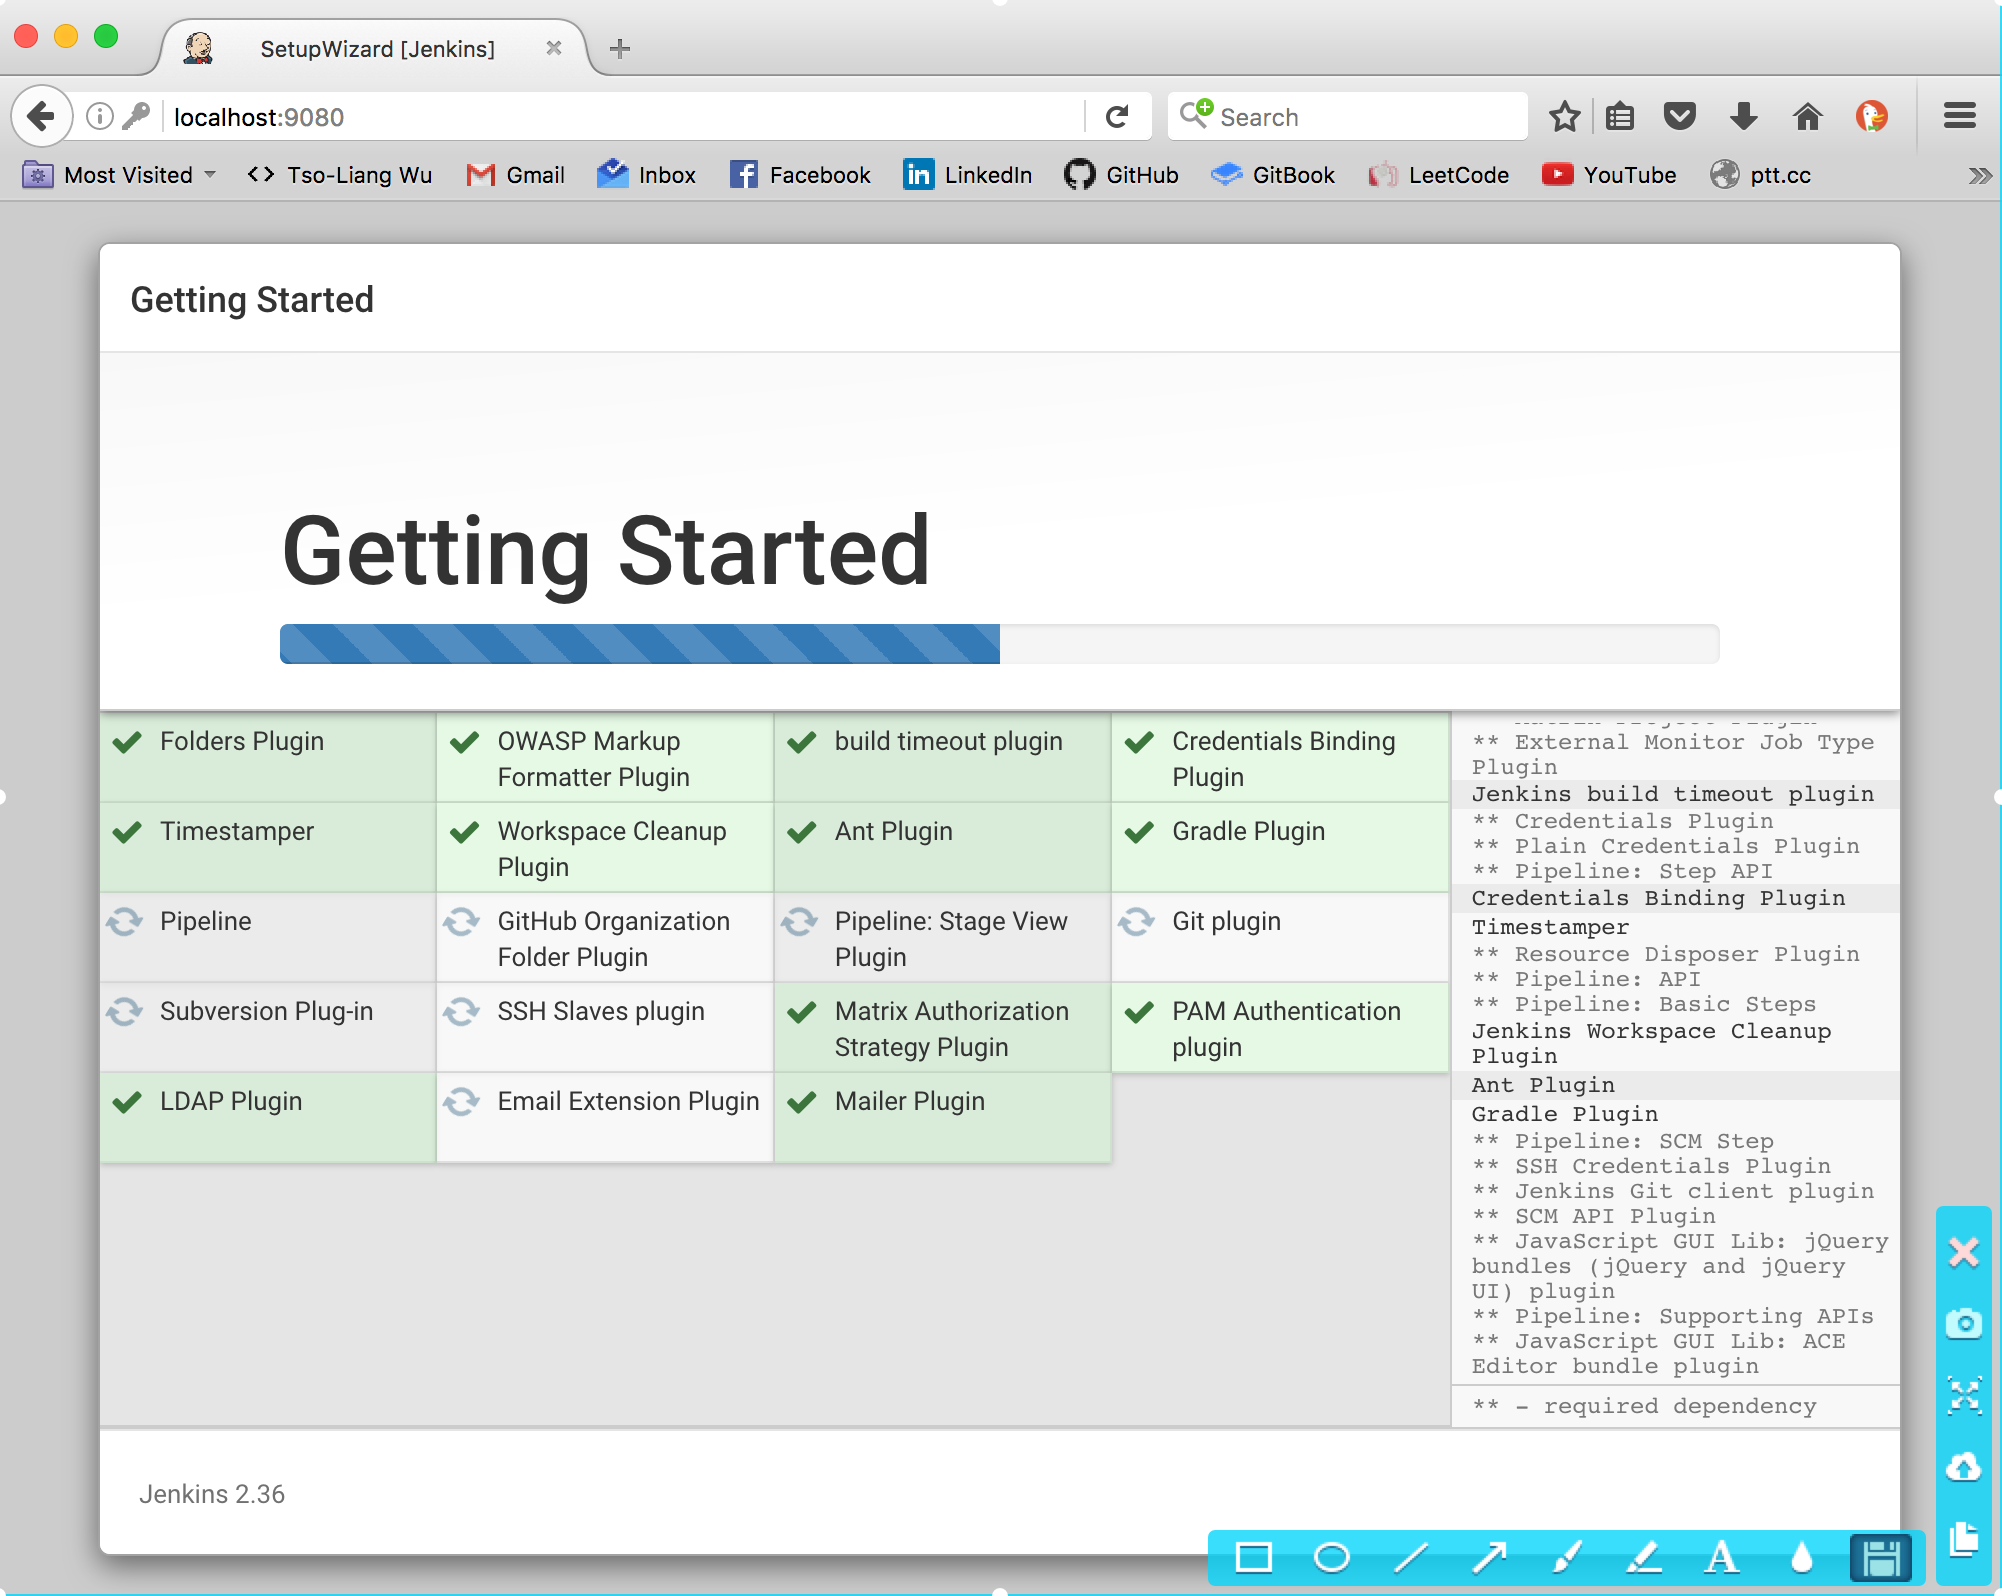
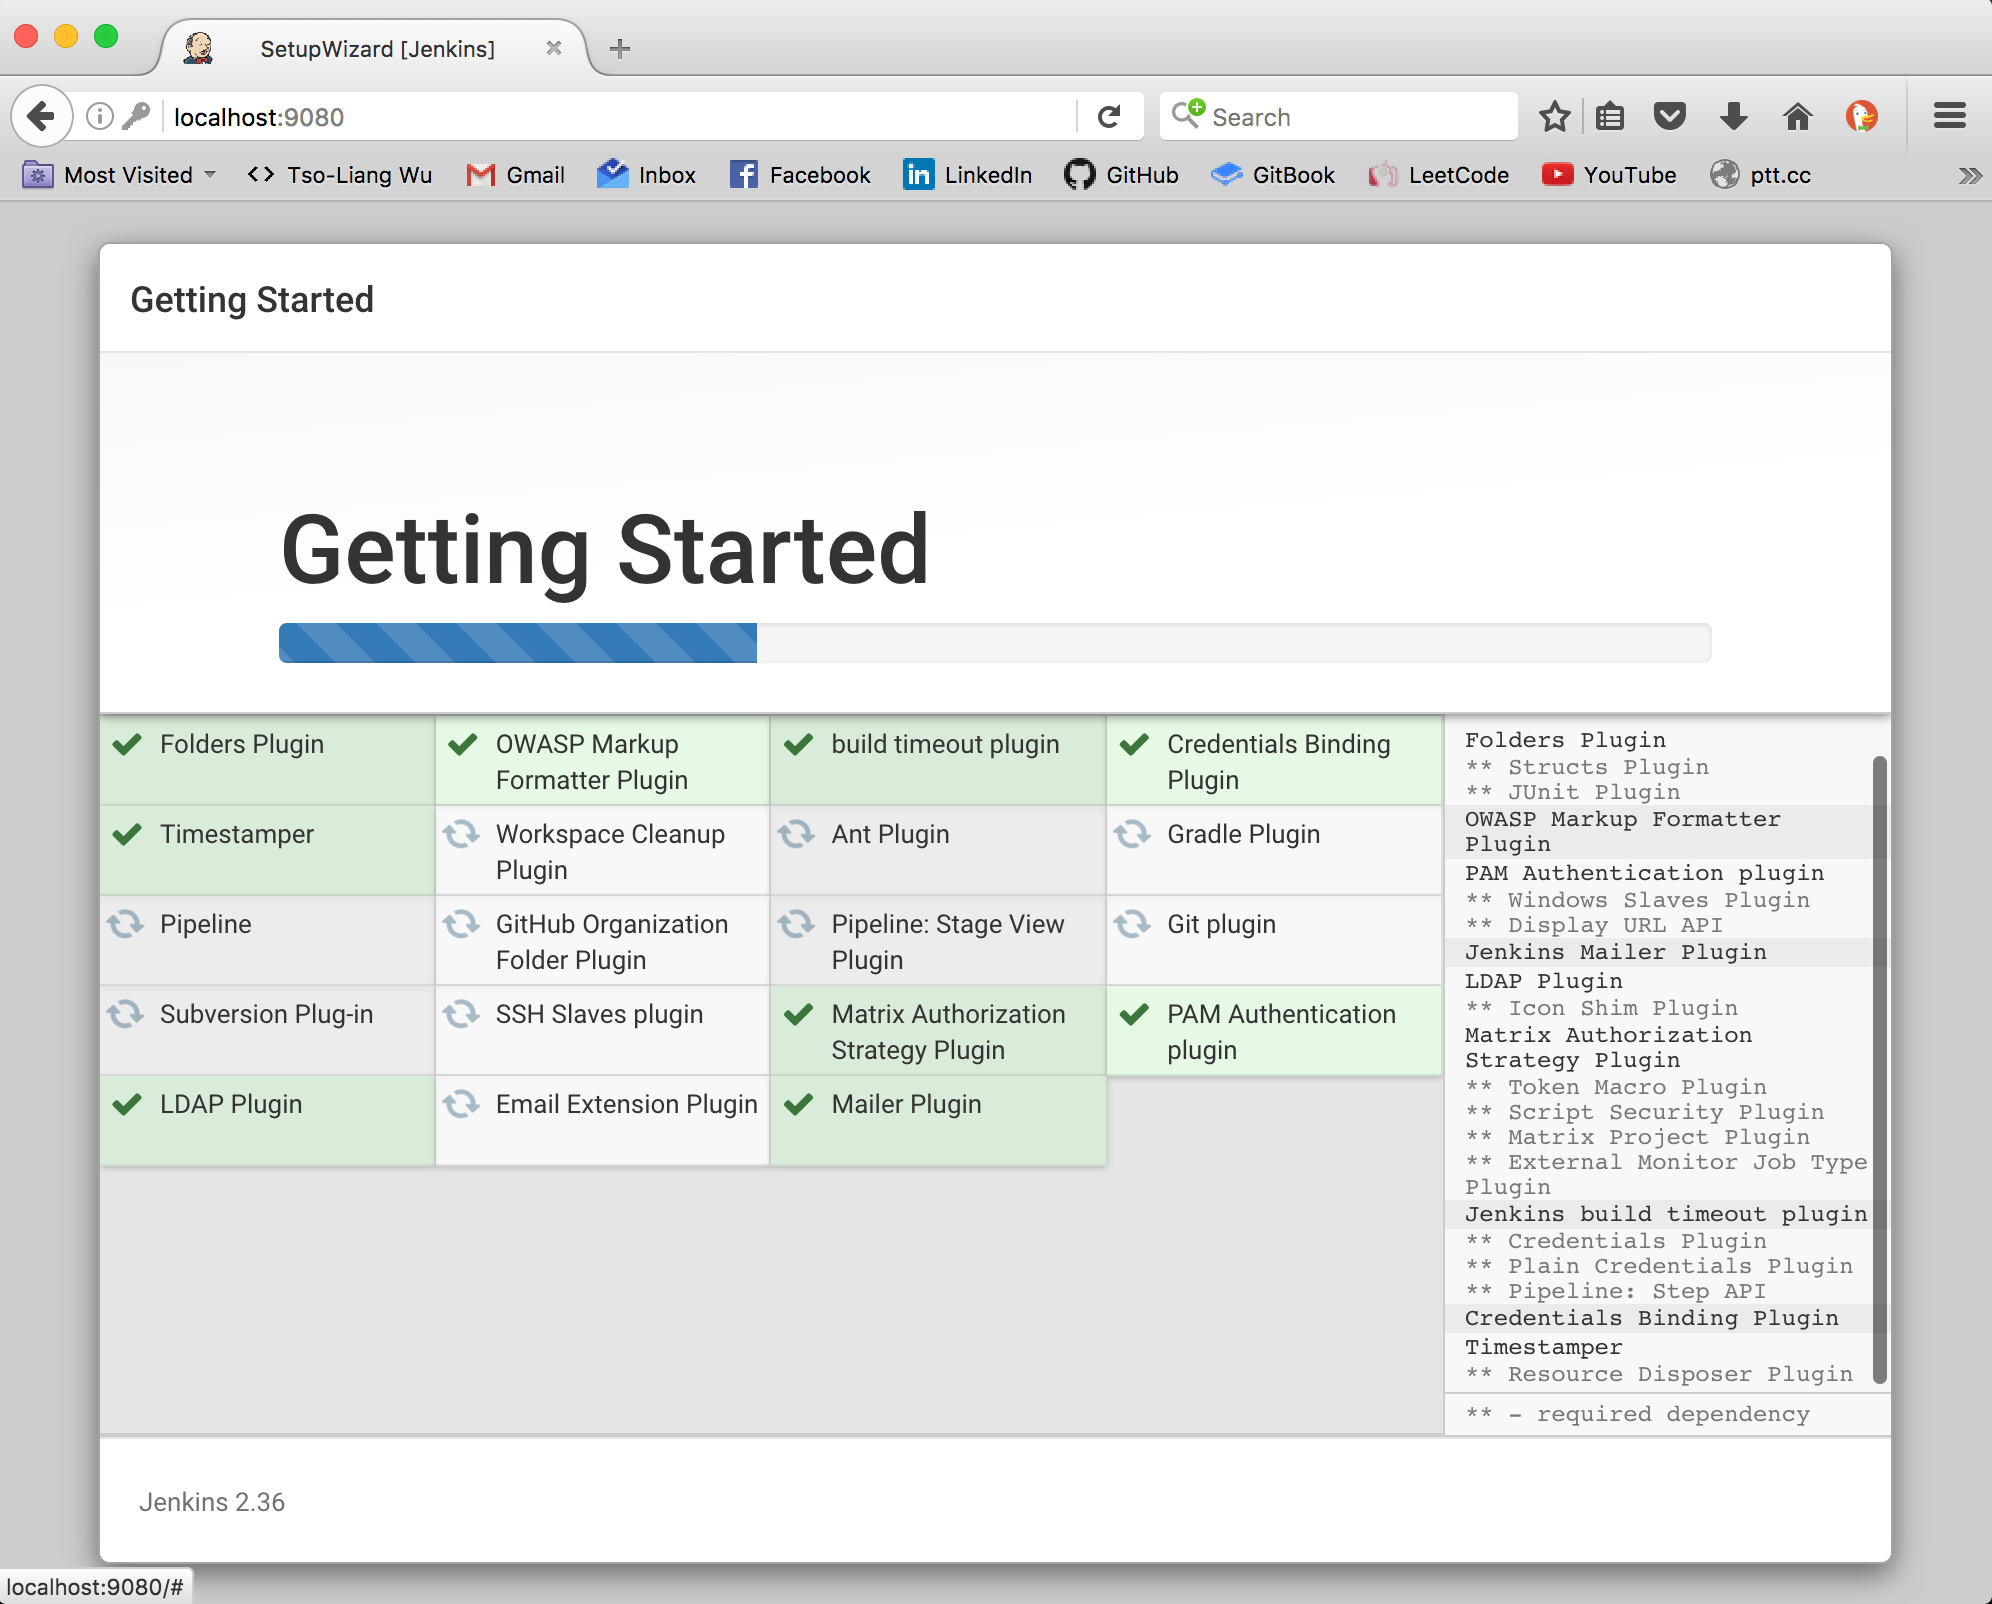
Add images

diff --git a/ansible/create_jenkins_users_with_template.md b/ansible/create_jenkins_users_with_template.md
@@ -18,3 +18,5 @@ $ sudo cat /var/lib/jenkins/secrets/initialAdminPassword
 
 在一開始，我們可以先選取 **Install suggested plugins** 就好。未來若有需要，還是可以隨時新增其他的插件。
 
+![jenkins_02](https://github.com/tsoliangwu0130/learn-ansible-and-jenkins-in-30-days/blob/master/images/jenkins_02.png?raw=true)
+
